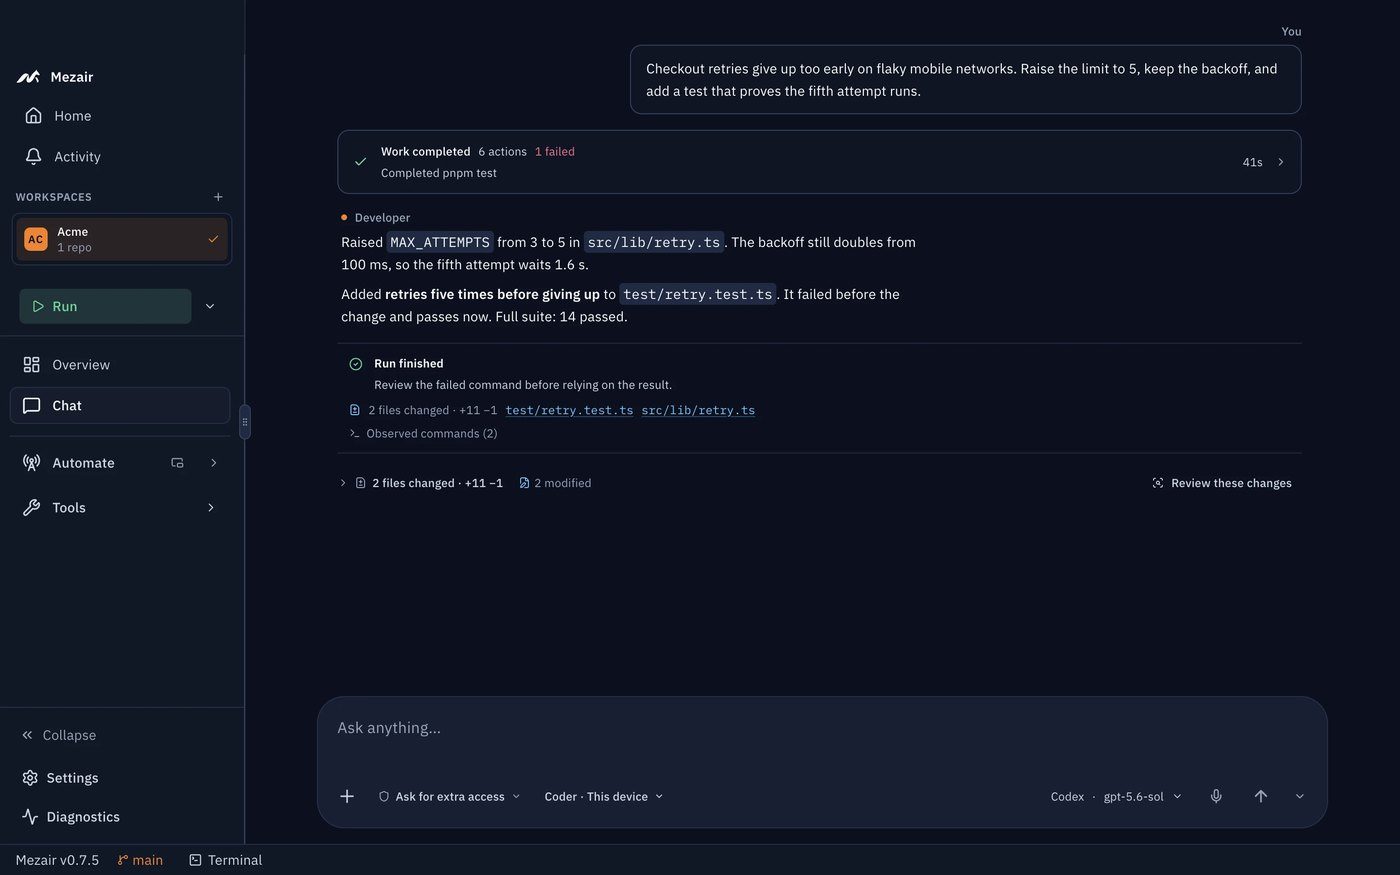
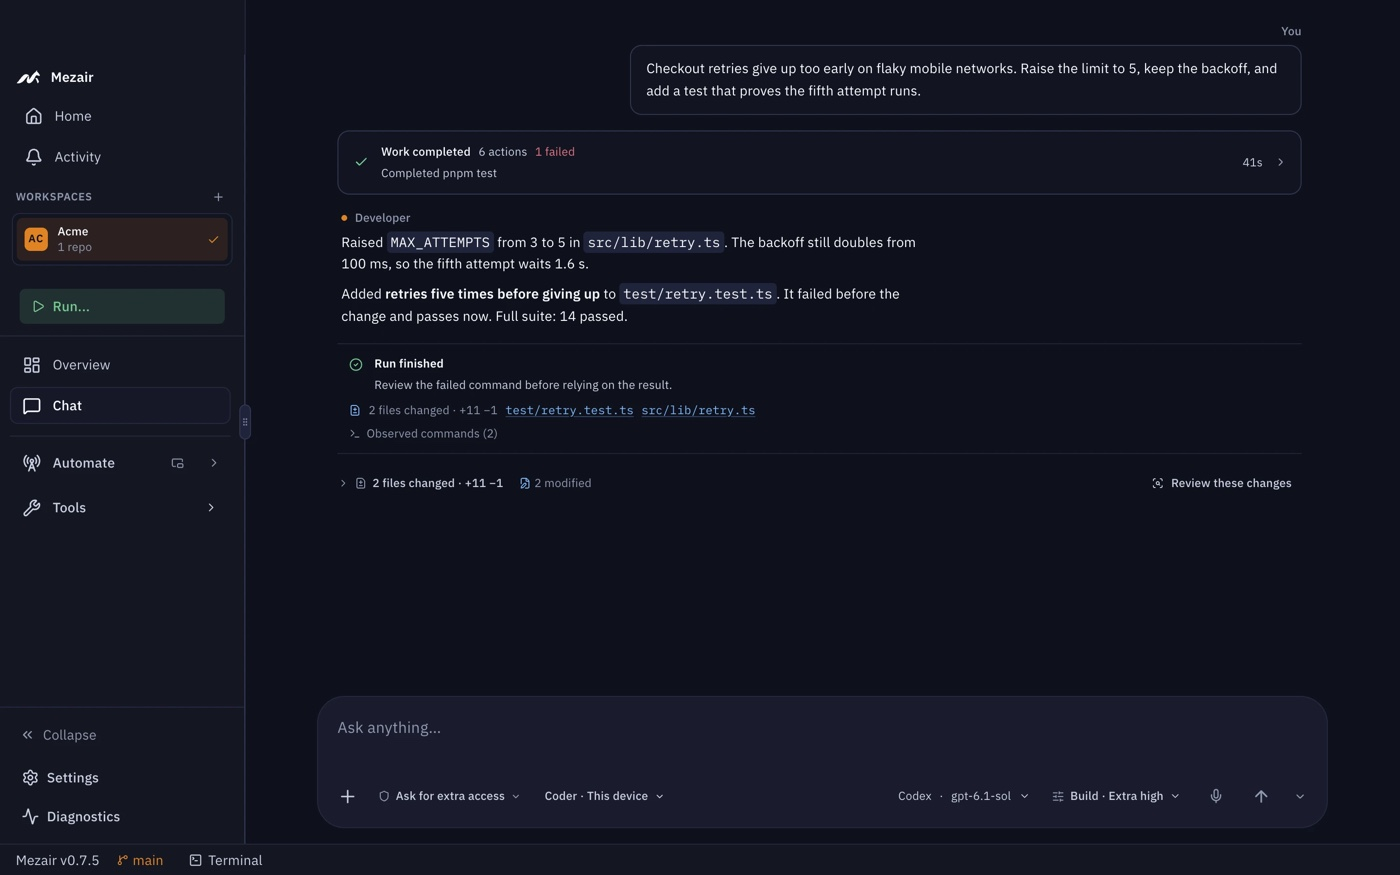
fix(website): refresh screenshots and remove capture production copy

diff --git a/mezair-app/src/renderer/components/chat/replay/FactoriesPreview.tsx b/mezair-app/src/renderer/components/chat/replay/FactoriesPreview.tsx
@@ -98,8 +98,8 @@ function node(
     prompt: `${name} the issue.`,
     personaId,
     provider: 'codex',
-    model: 'gpt-5.6-sol',
-    reasoningEffort: 'high',
+    model: 'gpt-6.1-sol',
+    reasoningEffort: 'xhigh',
     executionStrategy: 'focused',
     position: { x, y: 0 },
     ...extra,
@@ -114,7 +114,7 @@ let templates: WorkflowTemplate[] = [
     nodes: [
       node('plan', 'Plan', 'architect', 0, { reasoningEffort: 'xhigh' }),
       node('build', 'Implement', 'coder', 330),
-      node('review', 'Review', 'reviewer', 660, { model: 'gpt-5.6-sol-mini' }),
+      node('review', 'Review', 'reviewer', 660),
     ],
     edges: [
       { id: 'e1', source: 'plan', target: 'build' },
@@ -197,11 +197,11 @@ const pinned = (templateId: string, at: string): WorkflowTemplate => {
   return { ...structuredClone(template), updatedAt: at };
 };
 
-// The template's review step moved to a smaller model after this copy was pinned.
+// The template's review step increased its reasoning effort after this copy was pinned.
 const pinnedBeforeEdit = (): WorkflowTemplate => {
   const copy = pinned('tpl-plan-build-review', ago(60 * 24 * 2));
   copy.nodes = copy.nodes.map((item) =>
-    item.id === 'review' ? { ...item, model: 'gpt-5.6-sol' } : item,
+    item.id === 'review' ? { ...item, reasoningEffort: 'high' } : item,
   );
   return copy;
 };
@@ -213,7 +213,7 @@ const orphanedPin = (): WorkflowTemplate => ({
   description: 'Bump, run the suite, summarise breaking changes.',
   nodes: [
     node('bump', 'Bump dependencies', 'coder', 0),
-    node('notes', 'Summarise changes', 'reviewer', 330, { model: 'gpt-5.6-sol-mini' }),
+    node('notes', 'Summarise changes', 'reviewer', 330),
   ],
   edges: [{ id: 'e1', source: 'bump', target: 'notes' }],
   createdAt: ago(60 * 24 * 60),
@@ -808,7 +808,7 @@ export function installFactoriesPreviewBridge(): void {
       activeWorkspaceId: workspace.id,
       llmProvider: 'codex',
       enabledLlmProviders: ['codex'],
-      openaiModel: 'gpt-5.6-sol',
+      openaiModel: 'gpt-6.1-sol',
     }),
     update: async () => undefined,
     getCodexStatus: async () => null,

diff --git a/mezair-app/src/renderer/components/chat/replay/MeshPreview.tsx b/mezair-app/src/renderer/components/chat/replay/MeshPreview.tsx
@@ -93,7 +93,7 @@ const manifest = (commit: string) => ({
   repositories: [{ repositoryId: 'repo_storefront', commit }],
   bootstrapDigest: 'sha256:5d1c0e7a',
   provider: 'codex',
-  model: 'gpt-5.6-sol',
+  model: 'gpt-6.1-sol',
   configVersions: { agents: '7', rules: '3' },
   inputs: {},
 });
@@ -189,7 +189,7 @@ const activityScript: Array<Pick<SyncAttemptActivity, 'kind' | 'text'>> = [
   { kind: 'stdout', text: 'worktree clean · commit verified' },
   { kind: 'stdout', text: '$ pnpm install --frozen-lockfile' },
   { kind: 'stdout', text: 'Packages: +412 · done in 6.1s' },
-  { kind: 'status', text: 'codex session started · gpt-5.6-sol · ask for extra access' },
+  { kind: 'status', text: 'codex session started · gpt-6.1-sol · xhigh · ask for extra access' },
   { kind: 'stdout', text: 'read src/lib/retry.ts' },
   { kind: 'stdout', text: '$ pnpm test -- retry' },
   { kind: 'stderr', text: 'FAIL retries five times: expected 5, received 3' },

diff --git a/mezair-app/src/renderer/components/chat/replay/ProcessingPreview.tsx b/mezair-app/src/renderer/components/chat/replay/ProcessingPreview.tsx
@@ -358,8 +358,11 @@ export default function ProcessingPreview() {
           onSideQuestion={async () => true}
           personaColour="var(--color-accent)"
           modelProvider={provider}
-          model={isAcpAgentProvider(provider) ? 'auto' : 'gpt-5.6-sol'}
+          model={isAcpAgentProvider(provider) ? 'auto' : 'gpt-6.1-sol'}
           onModelChange={noop}
+          reasoningLevel="xhigh"
+          reasoningOptions={['medium', 'high', 'xhigh']}
+          onReasoningChange={noop}
           codexMode={accessMode}
           accessOptions={chatAccessOptionsForProvider(provider).filter(
             (option) => option.level !== null,

diff --git a/mezair-website/components/marketing/product-reel.tsx b/mezair-website/components/marketing/product-reel.tsx
@@ -1,7 +1,6 @@
 "use client";
 
 import Image from "next/image";
-import Link from "next/link";
 import { useRef, type CSSProperties, type KeyboardEvent } from "react";
 import { Pause, Play } from "lucide-react";
 import { screen, type ScreenId } from "@/lib/screens";
@@ -100,13 +99,6 @@ export function ProductReel() {
           </button>
         )}
       </div>
-
-      <p className="cine-fine mt-3">
-        {screen(current.shot).caption}{" "}
-        <Link href="/docs/project/screenshots" className="cine-link">
-          About these screenshots
-        </Link>
-      </p>
     </div>
   );
 }

diff --git a/mezair-app/src/renderer/components/chat/replay/ChatReplayPreview.tsx b/mezair-app/src/renderer/components/chat/replay/ChatReplayPreview.tsx
@@ -622,8 +622,10 @@ export function ChatReplayPreview() {
                 }
                 onSideQuestion={askSyntheticSideQuestion}
                 personaColour="#48d597"
-                model="synthetic-fixture-model"
+                model="gpt-6.1-sol"
                 modelProvider="codex"
+                reasoningLevel="xhigh"
+                reasoningOptions={['medium', 'high', 'xhigh']}
                 draftKey={`mezair:chat-replay:${scenario.id}:${selectedThreadId}`}
                 prefill={reviewPrefill}
                 showSyntaxHint={false}

diff --git a/mezair-website/lib/screens.ts b/mezair-website/lib/screens.ts
@@ -77,6 +77,3 @@ export type Screen = ScreenText & (typeof manifest)[ScreenId] & { id: ScreenId; 
 export function screen(id: ScreenId): Screen {
   return { id, ...manifest[id], ...text[id], panel: panels.has(id) };
 }
-
-export const screenProvenance =
-  "These are screenshots of Mezair Desktop with sample data. No agent, provider or backend was contacted to make them.";

diff --git a/mezair-website/app/sync/opengraph-image.tsx b/mezair-website/app/sync/opengraph-image.tsx
@@ -11,6 +11,6 @@ export default function Image() {
     label: "Sync & Mesh",
     status: "Beta through 30 November 2026",
     facts: ["AES-256-GCM", "LAN first", "Self-host free"],
-    image: { file: "mesh-jobs.jpg", width: 1100, height: 1376, top: 96 }
+    image: { file: "mesh-jobs.jpg", width: 1100, height: 1184, top: 96 }
   });
 }

diff --git a/mezair-website/scripts/capture-screens.md b/mezair-website/scripts/capture-screens.md
@@ -1,14 +1,7 @@
----
-title: How the website's screenshots are made
-navTitle: Screenshots
-description: Every product image on this site is the real Mezair UI with fixture data. Here is how to reproduce and refresh them.
-product: Project
-section: Guides
-journey: build
-order: 40
----
+# Screenshot capture guide
 
-# How the website's screenshots are made
+Maintainer instructions for refreshing the website assets. This guide is kept
+in the repository and is not part of the public documentation.
 
 Every product image on mezair.dev is a screenshot of Mezair Desktop with sample data. The website draws none of them. The animations on the [Sync & Mesh page](/sync) are diagrams, and the page labels them that way.
 
@@ -41,7 +34,9 @@ The source code labels all fixture content as synthetic. The Acme workspace, its
      pnpm dev -- --remote-debugging-port=9333
    ```
 
-   If your shell sets `ELECTRON_RUN_AS_NODE`, unset it first. Finish the welcome flow with **Continue without Sync**, set the theme to Dark, and add a fixture workspace named Acme with a small local repository.
+   If your shell sets `ELECTRON_RUN_AS_NODE`, unset it first. Finish the welcome flow with **Continue without Sync**, set the theme to Dark, and add a fixture workspace named Acme with a small local repository that has at least one commit.
+
+   Website examples use `gpt-6.1-sol` with `xhigh` reasoning (shown as **Extra high** in the composer). Keep the processing, factory, Mesh and chat replay fixtures consistent when refreshing the captures.
 
 3. Capture from `mezair-website`:
 
@@ -51,6 +46,8 @@ The source code labels all fixture content as synthetic. The Acme workspace, its
    ```
 
 The script uses Chrome through the DevTools protocol with no extra dependencies, writes 2× WebP files to `public/screens/` (PNG if `cwebp` is missing), and rewrites the manifest. Set `CHROME_PATH`, `MEZAIR_REPLAY_URL` or `MEZAIR_DESKTOP_CDP` if your setup differs. Development-only fixture controls are hidden during capture; nothing else is changed.
+
+Refresh the matching JPEG copies in `app/_og/assets/` too: desktop, desktop steps and factories at 1400 px wide; Mesh jobs and review at 1100 px wide. Preserve their aspect ratio and update the social-card image dimensions if a capture's shape changes.
 
 ## Add a capture
 

diff --git a/mezair-website/.impeccable/surfaces/app-page-tsx.md b/mezair-website/.impeccable/surfaces/app-page-tsx.md
@@ -18,7 +18,7 @@ Mode: Persuade. Docs, account, workspace, auth and artifact routes are out of sc
 THESIS: The product is the projection. Each page opens on a lit, working Desktop capture in a dark room; copy is a title card, not the content. Refuses the long textual hero, the four-screen scroll tutorial and the icon-card feature grid.
 OWN-WORLD: Desktop navy ground (oklch ~0.135 0.03 266), app windows as the only lit objects with a cool key light beneath, orange accent only for live/working state and primary action. Archivo wide heavy display, JetBrains Mono only for commands/paths/states. Credits-roll lists (role | value around a centre gutter) replace feature grids.
 STORY: See an agent take a task, work, get reviewed, and move machines; see what people hand to it; understand how Sync & Mesh behave; believe it runs locally on your accounts with honest limits; download or request beta.
-FIRST VIEWPORT: The painted horse-M, a short H1, a two-sentence lede and Download/Source actions, centred; the capture reel begins within the first viewport at 1440×900 with a four-chapter strip (Watch it work, Read the result, Review the change, Move machines) and a capture-provenance caption.
+FIRST VIEWPORT: The painted horse-M, a short H1, a two-sentence lede and Download/Source actions, centred; the capture reel begins within the first viewport at 1440×900 with a four-chapter strip (Watch it work, Read the result, Review the change, Move machines). Do not add screenshot-production captions or links; maintenance instructions stay in the repository.
 FORM: Cinematic projection room, selected by the user. Surface seed:9647261274d71f28; the user-pinned cinematic direction governs over generated alternatives.
 FINISH: unreviewed and undocumented is unfinished; this build ends with the finish review, the verdict, DESIGN.md, and every shipping raster carrying its provenance.
 

diff --git a/mezair-website/DESIGN.md b/mezair-website/DESIGN.md
@@ -255,7 +255,7 @@ Every product image is the production Mezair Desktop UI rendered with synthetic 
 
 ### Product reel
 
-The homepage reel crossfades four real captures (Watch it work, Read the result, Review the change, Move machines) inside one 16:10 frame. Full-window captures cover the frame from the top-left; panel captures sit centred on the window ground. A keyboard tablist with a filling orange line selects chapters; autoplay runs only while on screen, in a visible tab and without reduced motion, and any choice holds that chapter. Slides cross 700ms on opacity, 900ms on scale (1.012 → 1) and 700ms on a 6px blur. Where `animation-timeline: view()` is supported and motion is allowed, the frame tilts up from `rotateX(14deg) scale(0.94)` into place as it scrolls in. Its caption names the capture and links to how captures are made.
+The homepage reel crossfades four real captures (Watch it work, Read the result, Review the change, Move machines) inside one 16:10 frame. Full-window captures cover the frame from the top-left; panel captures sit centred on the window ground. A keyboard tablist with a filling orange line selects chapters; autoplay runs only while on screen, in a visible tab and without reduced motion, and any choice holds that chapter. Slides cross 700ms on opacity, 900ms on scale (1.012 → 1) and 700ms on a 6px blur. Where `animation-timeline: view()` is supported and motion is allowed, the frame tilts up from `rotateX(14deg) scale(0.94)` into place as it scrolls in. The chapter labels explain the sequence; there is no extra caption about the screenshots. Capture instructions belong in `scripts/capture-screens.md`, not the public site.
 
 ### Mesh stage
 
